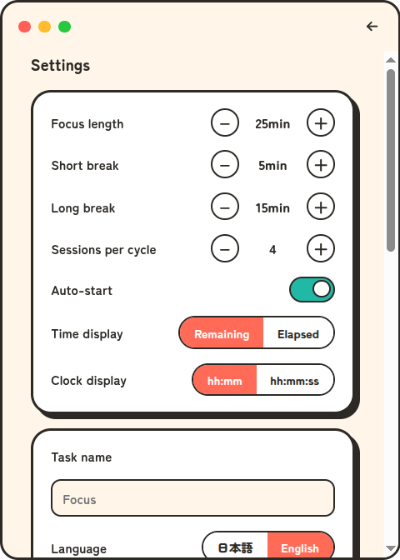
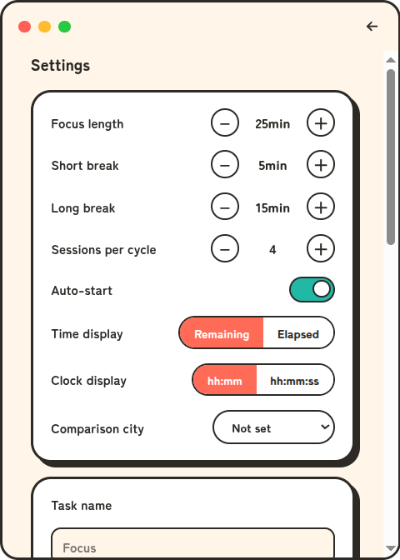
docs: refresh screenshots and document world clock and preset timers
- Regenerate the timer, settings, and mini shots from the v0.3.0 build,
  so the new comparison-city setting appears in the settings shot
- Add a clock shot to demo-capture: pick New York as the comparison
  city, switch to clock mode, and wait for the two-row layout so the
  capture fails loudly if the city did not stick
- README: add world clock and preset timer features, the clock-mode
  screenshot, and the comparison city to the settings rundown
- Landing page: show the clock popup beside the timer and add a
  clock-mode feature card
- Guide: rewrite the clock-mode section (two-city rows, hour shifting
  that wraps at a day, preset countdown timers), and add the
  comparison-city setting to the table and the stored-data list

Changed region(s): [[0.06, 0.6982, 0.9, 1.0], [0.96, 0.425, 0.99, 0.4554]]

diff --git a/docs/guide.html b/docs/guide.html
@@ -311,14 +311,18 @@
       </ul>
 
       <h2 id="clock">Clock mode</h2>
+      <img
+        class="shot small"
+        src="./assets/shot-clock.png"
+        alt="The kizami clock mode — home and New York time stacked over the day-progress blocks, with preset countdown timer buttons below"
+      />
       <p>
         Click the <strong>clock button</strong> in the popup's title bar to turn the popup into a
         clock. The layout stays the same — only the readout changes: the header reads
         <strong>Clock Mode</strong>, the big number shows the current time of day, and the progress
-        blocks fill as the day goes by — empty at midnight, half full at noon. The timer buttons
-        stay visible but disabled, while the theme picker keeps working. The pomodoro timer keeps
-        running in the background and phase notifications still arrive; click the button again to
-        get back to the timer.
+        blocks fill as the day goes by — empty at midnight, half full at noon. The theme picker
+        keeps working, the pomodoro timer keeps running in the background and phase notifications
+        still arrive; click the button again to get back to the timer.
       </p>
       <ul>
         <li>
@@ -326,8 +330,23 @@
           <strong>hh:mm:ss</strong> — pick the format in <a href="#settings">Settings</a>.
         </li>
         <li>
-          Clock mode works in <a href="#mini">mini mode</a> too: the bar shows the time, the day
-          progress, the date with the weekday, and the expand button.
+          Pick a <strong>comparison city</strong> in <a href="#settings">Settings</a> and the clock
+          shows two rows: your home time and that city's, with its offset. Scroll over the clock (or
+          focus it and press ↑/↓) to shift both rows hour by hour — a day either way, and one step
+          further wraps back to now — to answer "if we meet at 16:00 my time, what is that for
+          them?". The display snaps back to the real time on its own ten seconds after the last
+          adjustment.
+        </li>
+        <li>
+          The buttons under the clock start a <strong>preset countdown timer</strong> (5, 10, 15,
+          30, or 60 minutes) — a quick kitchen timer, independent of the pomodoro cycle. A desktop
+          notification fires when time is up; the × button cancels a running timer, and picking
+          another preset simply replaces it.
+        </li>
+        <li>
+          Clock mode works in <a href="#mini">mini mode</a> too: the bar shows the time (both
+          cities, when a comparison city is set), the day progress, the date with the weekday, and
+          the expand button.
         </li>
         <li>kizami remembers the mode and reopens the same way next time.</li>
       </ul>
@@ -357,7 +376,7 @@
       <img
         class="shot small"
         src="./assets/shot-settings.png"
-        alt="The kizami settings view with duration steppers, sessions per cycle stepper, auto-start toggle, time display switch, clock display switch, task name field, language and tray icon switches, and update check"
+        alt="The kizami settings view with duration steppers, sessions per cycle stepper, auto-start toggle, time display switch, clock display switch, comparison city selector, and the top of the task name field"
       />
       <p>Open Settings with the <strong>gear button</strong> in the popup's title bar.</p>
       <table>
@@ -392,6 +411,13 @@
           <td>
             The time format used by <a href="#clock">clock mode</a>: hh:mm (the default) or
             hh:mm:ss.
+          </td>
+        </tr>
+        <tr>
+          <td>Comparison city</td>
+          <td>
+            A second city whose time <a href="#clock">clock mode</a> shows under your own, from a
+            list of major cities. "Not set" (the default) keeps the clock to a single row.
           </td>
         </tr>
         <tr>
@@ -441,7 +467,8 @@
       <ul>
         <li>
           <code>~/.config/kizami/settings.json</code> — durations, sessions per cycle, auto-start,
-          time display, clock mode and its format, task name, language, theme, and window mode.
+          time display, clock mode and its format, the comparison city, task name, language, theme,
+          and window mode.
         </li>
         <li>
           <code>~/.config/kizami/update.json</code> — update-check state: whether the automatic

diff --git a/docs/index.html b/docs/index.html
@@ -92,8 +92,15 @@
           0 18px 44px rgba(20, 14, 8, 0.35),
           0 4px 12px rgba(20, 14, 8, 0.25);
       }
+      .desktop .popups {
+        display: flex;
+        flex-wrap: wrap;
+        justify-content: center;
+        gap: 1.2rem;
+        width: 100%;
+      }
       .desktop img.popup {
-        width: min(320px, 70%);
+        width: min(300px, 70%);
       }
       .desktop img.mini {
         width: min(340px, 80%);
@@ -223,11 +230,18 @@
 
       <div class="scene">
         <div class="desktop">
-          <img
-            class="popup"
-            src="./assets/shot-timer.png"
-            alt="The kizami timer popup — a focus session in progress with colorful progress blocks filling in"
-          />
+          <div class="popups">
+            <img
+              class="popup"
+              src="./assets/shot-timer.png"
+              alt="The kizami timer popup — a focus session in progress with colorful progress blocks filling in"
+            />
+            <img
+              class="popup"
+              src="./assets/shot-clock.png"
+              alt="kizami's clock mode — home and New York time stacked, with preset countdown timer buttons"
+            />
+          </div>
           <img
             class="mini"
             src="./assets/shot-mini.png"
@@ -293,7 +307,7 @@
           <h3>🍅 Classic pomodoro cycle</h3>
           <p>
             Focus (25 min) → short break (5 min), four times, then a long break (15 min). Every
-            duration is configurable.
+            duration and the number of sessions are configurable.
           </p>
         </div>
         <div class="card">
@@ -308,6 +322,13 @@
           <p>
             Shrink the popup to a slim horizontal bar that stays out of the way: just the countdown
             and a start/stop button.
+          </p>
+        </div>
+        <div class="card">
+          <h3>🕐 Clock mode &amp; world clock</h3>
+          <p>
+            Turn the popup into a desk clock with a second city, scroll to shift both times for
+            meeting planning, and start preset countdown timers right from the clock.
           </p>
         </div>
         <div class="card">

diff --git a/README.md b/README.md
@@ -44,6 +44,13 @@ sleep without drifting. There are no native dependencies.
   start/stop button.
 - **Clock mode.** Turn the popup into a desk clock (hh:mm or hh:mm:ss) with a
   bar showing how much of the day has passed, while the timer keeps running.
+- **World clock.** Pick a comparison city and the clock shows both times at
+  once; scrolling over the clock shifts both rows hour by hour to answer "if we
+  meet at 16:00 my time, what is that for them?" — it snaps back to now on its
+  own.
+- **Preset timers.** Kitchen-timer style countdowns (5 min to 1 hour) started
+  straight from clock mode, with a desktop notification when time is up —
+  independent of the pomodoro cycle.
 - **Five candy themes.** candy, strawberry milk, melon soda, grape gummy, and
   night pudding, switchable from the dots in the popup.
 - **Two tray icons.** The 刻 mark or the original tomato.
@@ -53,14 +60,20 @@ sleep without drifting. There are no native dependencies.
 
 ## Screenshots
 
-Durations, sessions per cycle, auto-start, time display, clock format, task
-name, language, and the tray icon are all set from the settings view:
+Durations, sessions per cycle, auto-start, time display, clock format, the
+comparison city, task name, language, and the tray icon are all set from the
+settings view:
 
 ![The kizami settings view](./docs/assets/shot-settings.png)
 
 Mini mode shrinks the popup to a slim horizontal bar that stays out of the way:
 
 ![kizami mini mode — a slim bar with the countdown](./docs/assets/shot-mini.png)
+
+Clock mode turns the popup into a desk clock, with an optional comparison city
+and preset countdown timers:
+
+![kizami clock mode — home and New York time with preset timer buttons](./docs/assets/shot-clock.png)
 
 ## Install
 

diff --git a/tools/demo-capture/README.md b/tools/demo-capture/README.md
@@ -15,18 +15,19 @@ Only `playwright-core` is needed — no browser download, no extra install step.
 ## Usage
 
 ```bash
-# All three shots, straight into docs/assets/
+# All four shots, straight into docs/assets/
 node tools/demo-capture/shoot-shots.mjs
 
 # Or just the ones you need
-node tools/demo-capture/shoot-shots.mjs timer settings mini
+node tools/demo-capture/shoot-shots.mjs timer settings mini clock
 ```
 
-| Shot       | File                | What it captures                        |
-| ---------- | ------------------- | --------------------------------------- |
-| `timer`    | `shot-timer.png`    | Timer view, 13:42 into a focus phase    |
-| `settings` | `shot-settings.png` | Settings view, via the gear button      |
-| `mini`     | `shot-mini.png`     | Mini mode bar, via the title bar button |
+| Shot       | File                | What it captures                                    |
+| ---------- | ------------------- | --------------------------------------------------- |
+| `timer`    | `shot-timer.png`    | Timer view, 13:42 into a focus phase                |
+| `settings` | `shot-settings.png` | Settings view, via the gear button                  |
+| `mini`     | `shot-mini.png`     | Mini mode bar, via the title bar button             |
+| `clock`    | `shot-clock.png`    | Clock mode with a comparison city and timer presets |
 
 Each shot launches its own instance against a throwaway user-data directory, so
 a run never touches your real settings even though it clicks UI that persists
